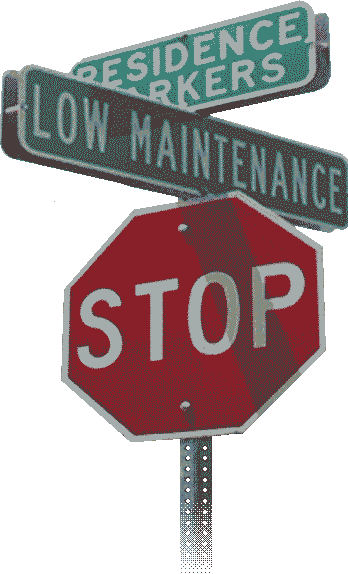
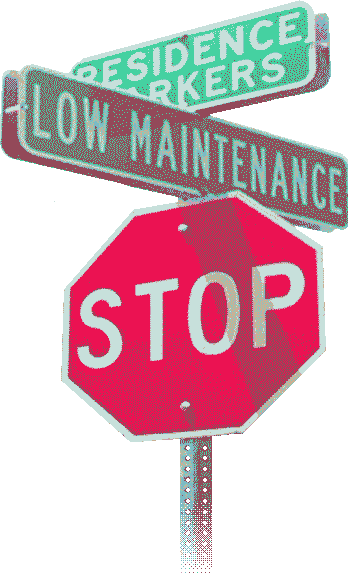
more index tweaks

diff --git a/style.css b/style.css
@@ -1,17 +1,29 @@
 @font-face {font-family: departuremono; src: url(assets/fonts/departure_mono.woff2); size-adjust: 80%}
 @keyframes spin {0% {content: "|"} 25% {content: "/"} 50% {content: "-"} 75% {content: "\\"}}
+@keyframes scroll {from {background-position-x: 600px} to {background-position-x: 0}}
 
 body {
 	display: flex;
 	justify-content: center;
 	align-items: center;
-	color: #493c3c;
+	color: #68293f;
 	font-family: sans-serif;
-	background: linear-gradient(to bottom, #a3b0dc, transparent calc(50% + 72px)) #dcdddc;
+	background: linear-gradient(to bottom, #63d8e580, transparent calc(50% + 72px)) #eeede7;
 	min-height: 100vh;
 	box-sizing: border-box;
 	padding: 2em;
 	overflow: hidden auto;
+	image-rendering: pixelated;
+
+	&::before {
+		content: "";
+		background: url(assets/vapor.png);
+		opacity: 0.25;
+		position: fixed;
+		inset: 0;
+		pointer-events: none;
+		animation: scroll 30s linear infinite;
+	}
 }
 
 #wrapper {
@@ -56,8 +68,7 @@ nav {
 }
 
 a {
-	/* color: #647a86; */
-	text-decoration: underline dotted #647a86;
+	text-decoration: underline;
 }
 
 #sign {

diff --git a/index.html b/index.html
@@ -20,7 +20,7 @@
 			<h1>paraphernalia</h1>
 			<span id="sblurb">loading</span>
 		</hgroup>
-		<p>well, they're still bringing the boxes in. is there something you're looking for in all this cardboard?</p>
+		<p>they're still bringing the boxes in. is there something you're looking for in all this cardboard?</p>
 		<nav>
 			<a href="blog">blog</a> •
 			<a href="tunes">tunes</a> •
